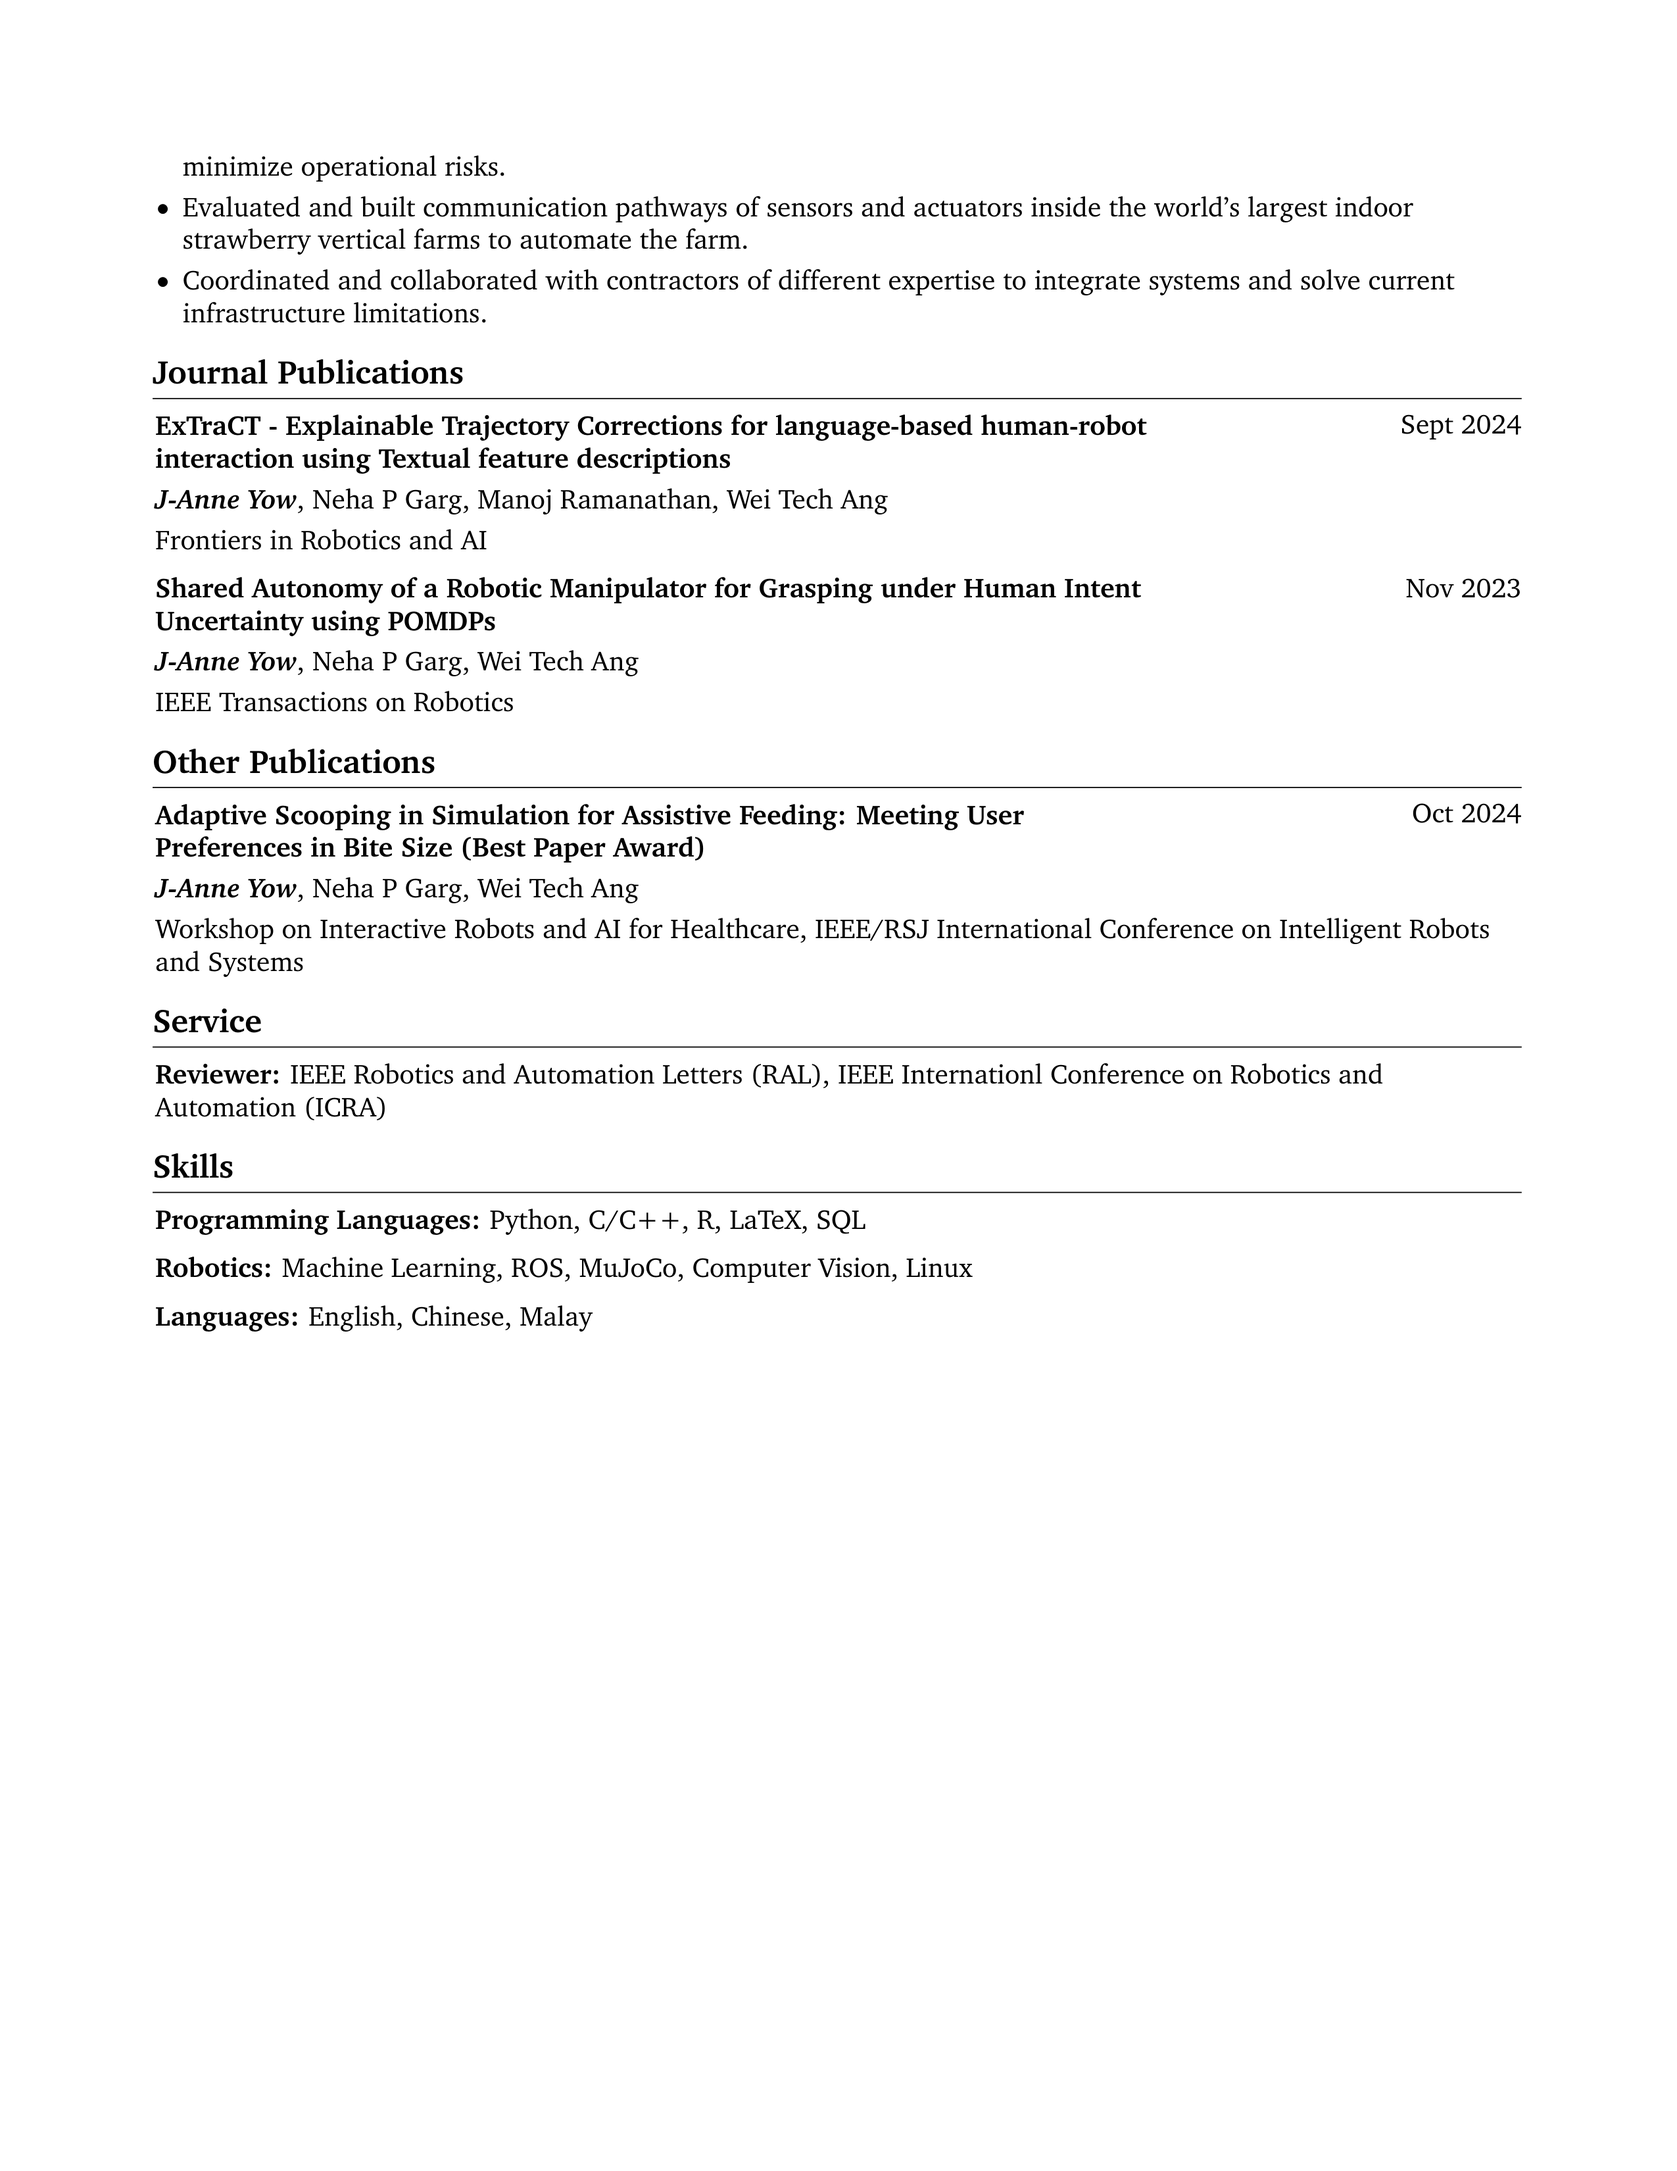
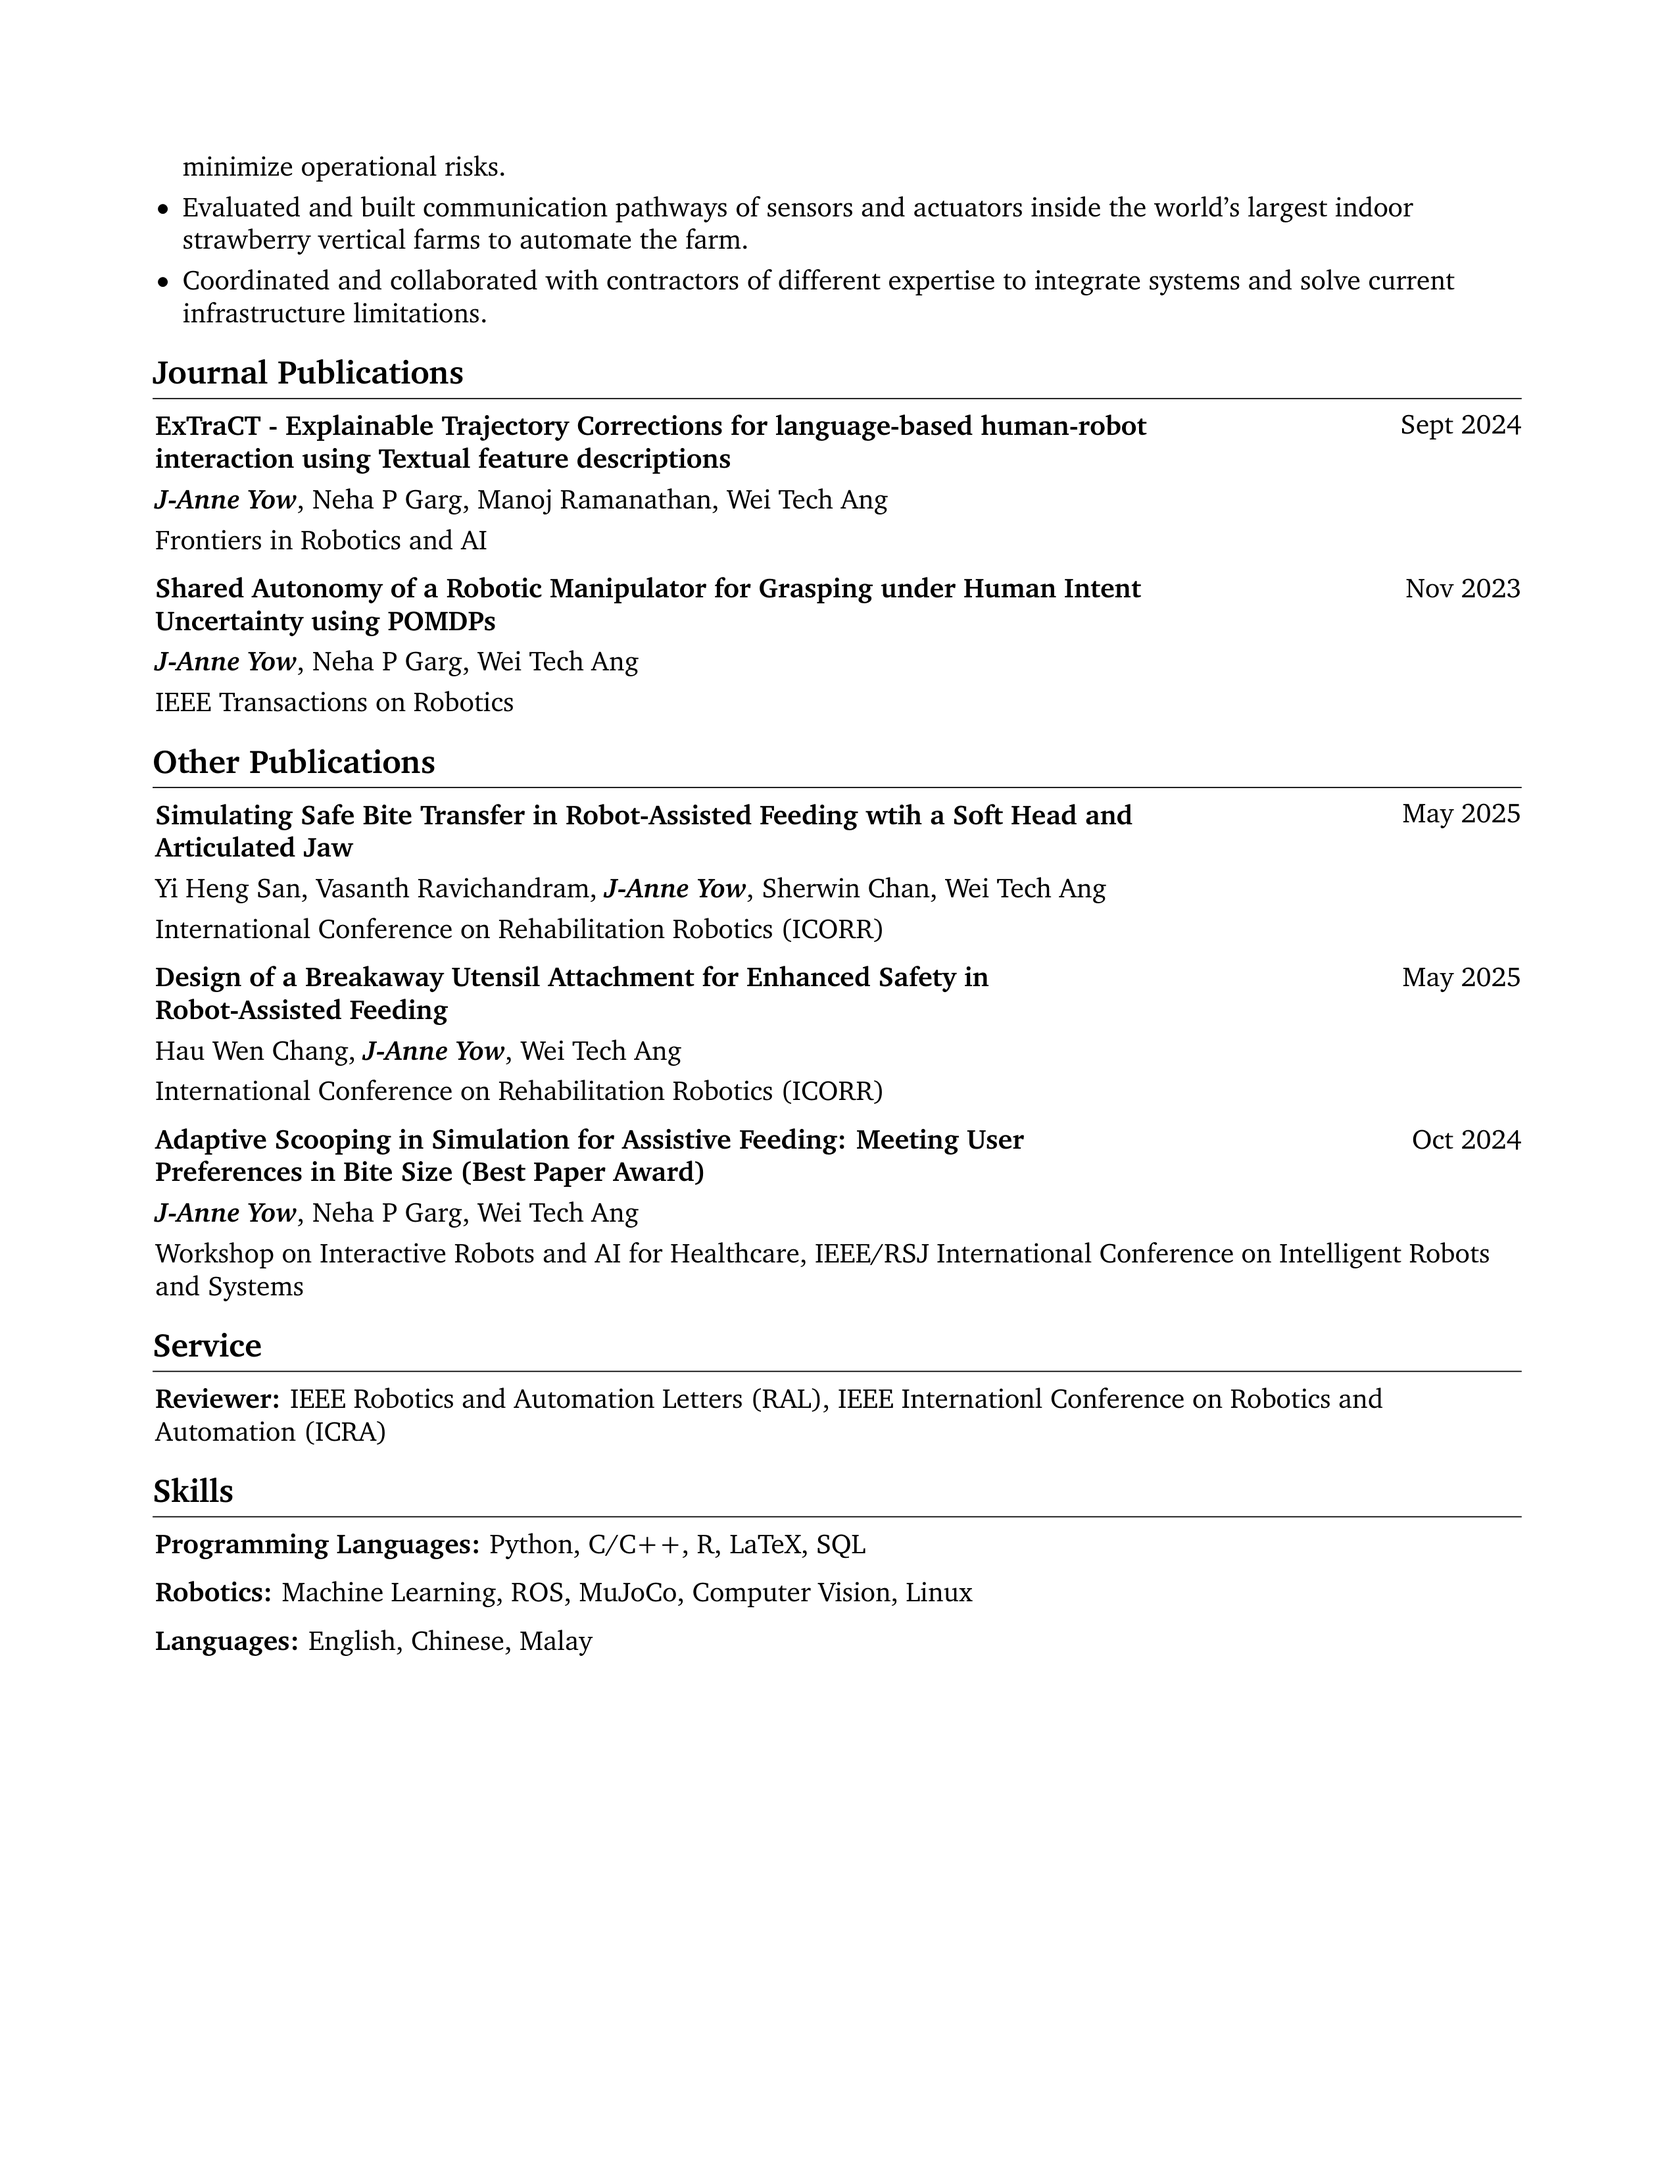
added icorr papers

diff --git a/assets/cv/rendercv_output/J-Anne_Yow_CV.html b/assets/cv/rendercv_output/J-Anne_Yow_CV.html
@@ -111,6 +111,18 @@
         <li>IEEE Transactions on Robotics</li>
         </ul>
         <h1>Other Publications</h1>
+        <h2>Simulating Safe Bite Transfer in Robot-Assisted Feeding wtih a Soft Head and Articulated Jaw</h2>
+        <ul>
+        <li>May 2025</li>
+        <li>Yi Heng San, Vasanth Ravichandram, <strong><em>J-Anne Yow</em></strong>, Sherwin Chan, Wei Tech Ang</li>
+        <li>International Conference on Rehabilitation Robotics (ICORR)</li>
+        </ul>
+        <h2>Design of a Breakaway Utensil Attachment for Enhanced Safety in Robot-Assisted Feeding</h2>
+        <ul>
+        <li>May 2025</li>
+        <li>Hau Wen Chang, <strong><em>J-Anne Yow</em></strong>, Wei Tech Ang</li>
+        <li>International Conference on Rehabilitation Robotics (ICORR)</li>
+        </ul>
         <h2>Adaptive Scooping in Simulation for Assistive Feeding: Meeting User Preferences in Bite Size (Best Paper Award)</h2>
         <ul>
         <li>Oct 2024</li>

diff --git a/assets/cv/rendercv_output/J-Anne_Yow_CV.tex b/assets/cv/rendercv_output/J-Anne_Yow_CV.tex
@@ -140,7 +140,7 @@
         \LenToUnit{\paperwidth-2 cm-0 cm+0.05cm},
         \LenToUnit{\paperheight-1.0 cm}
     ){\vtop{{\null}\makebox[0pt][c]{
-        \small\color{gray}\textit{Last updated in December 2024}\hspace{\widthof{Last updated in December 2024}}
+        \small\color{gray}\textit{Last updated in March 2025}\hspace{\widthof{Last updated in March 2025}}
     }}}%
   }%
 }%
@@ -379,6 +379,44 @@
 
 
         
+        \begin{samepage}
+            \begin{twocolentry}{
+                May 2025
+            }
+                \textbf{Simulating Safe Bite Transfer in Robot-Assisted Feeding wtih a Soft Head and Articulated Jaw}
+            \end{twocolentry}
+
+            \vspace{0.10 cm}
+            
+            \begin{onecolentry}
+                \mbox{Yi Heng San}, \mbox{Vasanth Ravichandram}, \mbox{\textbf{\textit{J-Anne Yow}}}, \mbox{Sherwin Chan}, \mbox{Wei Tech Ang}
+
+                \vspace{0.10 cm}
+                
+        International Conference on Rehabilitation Robotics (ICORR)\end{onecolentry}
+        \end{samepage}
+
+        \vspace{0.2 cm}
+
+        \begin{samepage}
+            \begin{twocolentry}{
+                May 2025
+            }
+                \textbf{Design of a Breakaway Utensil Attachment for Enhanced Safety in Robot-Assisted Feeding}
+            \end{twocolentry}
+
+            \vspace{0.10 cm}
+            
+            \begin{onecolentry}
+                \mbox{Hau Wen Chang}, \mbox{\textbf{\textit{J-Anne Yow}}}, \mbox{Wei Tech Ang}
+
+                \vspace{0.10 cm}
+                
+        International Conference on Rehabilitation Robotics (ICORR)\end{onecolentry}
+        \end{samepage}
+
+        \vspace{0.2 cm}
+
         \begin{samepage}
             \begin{twocolentry}{
                 Oct 2024

diff --git a/assets/cv/rendercv_output/J-Anne_Yow_CV.md b/assets/cv/rendercv_output/J-Anne_Yow_CV.md
@@ -82,6 +82,16 @@
 
 # Other Publications
 
+## Simulating Safe Bite Transfer in Robot-Assisted Feeding wtih a Soft Head and Articulated Jaw 
+- May 2025
+- Yi Heng San, Vasanth Ravichandram, ***J-Anne Yow***, Sherwin Chan, Wei Tech Ang
+- International Conference on Rehabilitation Robotics (ICORR)
+
+## Design of a Breakaway Utensil Attachment for Enhanced Safety in Robot-Assisted Feeding 
+- May 2025
+- Hau Wen Chang, ***J-Anne Yow***, Wei Tech Ang
+- International Conference on Rehabilitation Robotics (ICORR)
+
 ## Adaptive Scooping in Simulation for Assistive Feeding: Meeting User Preferences in Bite Size (Best Paper Award) 
 - Oct 2024
 - ***J-Anne Yow***, Neha P Garg, Wei Tech Ang
